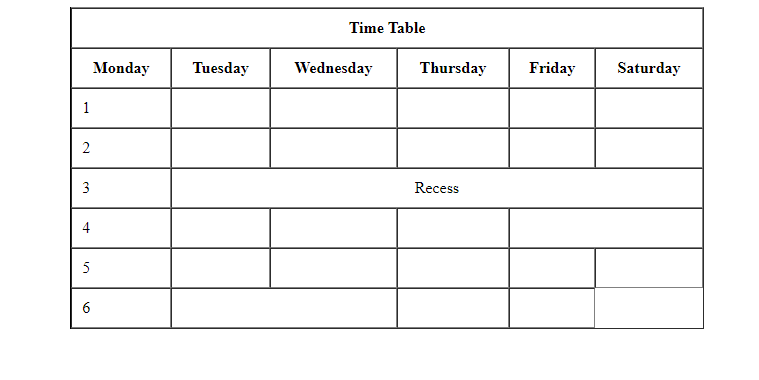
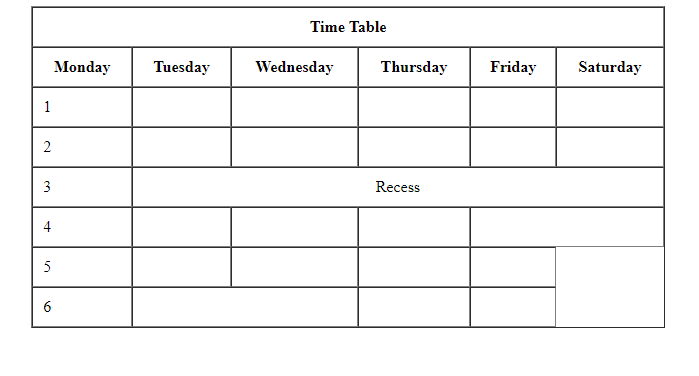
Table fixed

Changed region(s): [[0.03, 0.0, 0.9614, 0.8777], [0.4206, 0.0585, 0.5708, 0.0878]]

diff --git a/4 Time table/index.html b/4 Time table/index.html
@@ -56,7 +56,7 @@
                 <td></td>
                 <td></td>
                 <td></td>
-                <td></td>
+
             </tr>
             <tr>
                 <td>6</td>
